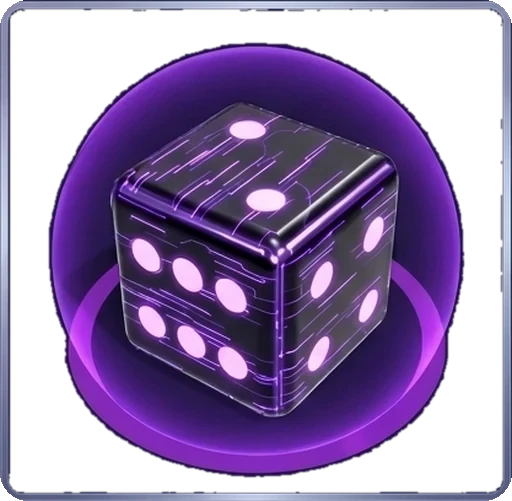
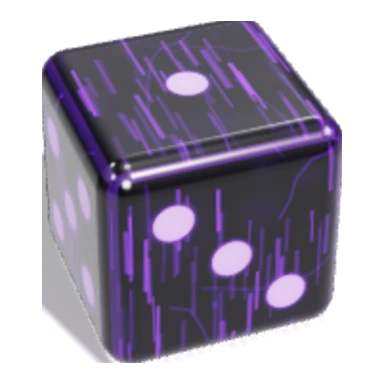
feat: thumbnail dadu dari referensi/thumb; thumbnail set karakter; scrollbar grid Set disembunyikan (slot kanan tidak tertutup); SW v458, karakter.js v=229, kredit.css v=222

diff --git a/data/inventory/character/_shared/js/karakter.js b/data/inventory/character/_shared/js/karakter.js
@@ -1357,6 +1357,9 @@ function startPreview(ci,part,set){
   pv={saved:clone(cfg),ci:ci,set:set||null};previewAll=true;
   apply(part);
 }
+/* thumbnail set bawaan: data/inventory/character/_shared/img/set/<id>-<m|f>.webp (hanya set bawaan; PVP & outfit pribadi tidak punya foto) */
+const SET_THUMBS=new Set(['citizen-m','knight-m','mage-m','farmer-m','explorer-m','noble-m','citizen-f','knight-f','mage-f','farmer-f','explorer-f','princess-f','fairy-f']);
+function setThumb(p){const k=p.id+'-'+p.g;return(p.outfit==null&&!p.pvp&&SET_THUMBS.has(k))?'data/inventory/character/_shared/img/set/'+k+'.webp':'';}
 /* ===== Set: beli per set = total harga item yang belum dimiliki ===== */
 const SLOTK=['top','legs','boots','helm','chest','shoulder','cape','weapon'];
 function setParts(p){ /* item katalog tiap bagian set (selain 'none') */
@@ -1522,7 +1525,8 @@ function renderOpts(){
     const presetCard=p=>{
       const st=setStatus(p),lock=st.miss.length>0,on=!lock&&setOn(p);
       const part=clone(p.set),name=p.n.replace(/^\S+\s/,'');
-      optsEl.appendChild(card({i:n++,th:emo(c.ico),nm:p.n,on:on,lock:lock,sel:!!(pv&&((pv.set&&pv.set.id===p.id)||(pv.draft&&pv.key==='p'+p.id))),
+      const stat=setThumb(p); /* set bawaan = foto statis; PVP & outfit pribadi tetap jepretan 3D */
+      optsEl.appendChild(card({i:n++,th:stat?'<img class="thimg" src="'+stat+'" alt="" draggable="false" decoding="async">':emo(c.ico),nm:p.n,on:on,lock:lock,sel:!!(pv&&((pv.set&&pv.set.id===p.id)||(pv.draft&&pv.key==='p'+p.id))),
         actionKey:'set:'+p.id,
         action:{
           state:()=>lock
@@ -1539,7 +1543,7 @@ function renderOpts(){
           }
         },
         fn:()=>lock?startPreview(st.miss[0],clone(p.set),{id:p.id,n:p.n,cis:st.miss,total:st.total}):stage('p'+p.id,p.n.replace(/^\S+\s/,''),clone(p.set)),
-        tq:{key:'p|'+p.g+p.id+JSON.stringify([cfg.skin,cfg.eyes,cfg.hair,cfg.body])+(p.outfit!=null?JSON.stringify(p.set):''),fr:'full',part:()=>clone(p.set)}}));
+        tq:stat?null:{key:'p|'+p.g+p.id+JSON.stringify([cfg.skin,cfg.eyes,cfg.hair,cfg.body])+(p.outfit!=null?JSON.stringify(p.set):''),fr:'full',part:()=>clone(p.set)}}));
     };
     PRESETS.filter(p=>p.g===cfg.gender).forEach(presetCard);
     /* outfit pribadi: tampil di samping set bawaan (hanya yang sesuai gender), lalu kartu "Simpan tampilan" bila slot masih ada */

diff --git a/data/inventory/character/_shared/css/kredit.css b/data/inventory/character/_shared/css/kredit.css
@@ -33,7 +33,8 @@ body.kr #info::before{content:'';position:absolute;inset:-20px;border:20px solid
 .cat.sub .cl{font-size:19px}
 .cat.sub.on{border-bottom-color:#ffd45a}
 #ofm{position:absolute;right:0;top:232px;width:auto;height:54px;padding:0 24px;border-radius:12px;font:400 26px var(--font-title);text-shadow:0 2px 0 rgba(0,0,0,.6);background:url(../../../../../assets/images/ui/buttons-and-controls/tombol-biru-polos.webp) center/100% 100% no-repeat}
-#gwrap{position:absolute;left:0;top:318px;width:920px;height:600px;overflow-y:auto;overflow-x:hidden;padding:6px 8px 6px 0;scrollbar-width:thin;scrollbar-color:#6d6590 transparent}
+#gwrap{position:absolute;left:0;top:318px;width:920px;height:600px;overflow-y:auto;overflow-x:hidden;padding:6px 8px 6px 0;scrollbar-width:none;-ms-overflow-style:none;touch-action:pan-y}
+#gwrap::-webkit-scrollbar,#grid::-webkit-scrollbar{display:none;width:0;height:0}
 #grid{position:static;left:auto;top:auto;width:900px;display:grid;grid-template-columns:repeat(6,140px);grid-auto-rows:236px;gap:14px 12px}
 #grid.flat{grid-template-columns:1fr;grid-auto-rows:auto;gap:16px}
 .card{position:relative;width:140px;height:236px;display:flex;flex-direction:column;align-items:center;justify-content:flex-end;gap:4px;padding:8px 6px 8px;cursor:pointer;animation:pop .35s both;transition:transform .1s}

diff --git a/karakter.html b/karakter.html
@@ -5,7 +5,7 @@
 <script>UT.PageShell.renderBase();</script>
 <title>Karakter - Dragon Roll</title><link rel="icon" type="image/png" sizes="32x32" href="assets/icons/favicon-32.png"><link rel="icon" href="assets/icons/favicon.ico" sizes="any">
 
-<link rel="stylesheet" href="assets/css/page.css"><link rel="stylesheet" href="data/inventory/character/_shared/css/karakter.css"><link rel="stylesheet" href="data/inventory/character/_shared/css/kredit.css?v=221"><link rel="stylesheet" href="assets/css/bg.css">
+<link rel="stylesheet" href="assets/css/page.css"><link rel="stylesheet" href="data/inventory/character/_shared/css/karakter.css"><link rel="stylesheet" href="data/inventory/character/_shared/css/kredit.css?v=222"><link rel="stylesheet" href="assets/css/bg.css">
 <script src="assets/js/systems/ambience.js"></script>
 </head>
 <body class="kr">
@@ -47,6 +47,6 @@
 <script src="assets/js/core/shared-gl.js"></script>
 <script src="assets/js/core/page-module.js"></script>
 <script src="data/inventory/character/_shared/js/character-sets.js"></script>
-<script src="data/inventory/character/_shared/js/karakter.js?v=228"></script>
+<script src="data/inventory/character/_shared/js/karakter.js?v=229"></script>
 </body>
 </html>

diff --git a/data/inventory/character/_shared/css/karakter.css b/data/inventory/character/_shared/css/karakter.css
@@ -54,7 +54,7 @@
 .tab.on .ul{display:block}
 /* slot diperbesar 1.25x (5 kolom, ~162px): di HP layar lebar (20:9) stage 1920x1080 tampil di tinggi penuh jadi slot 130px terlalu kecil.
    zoom menskalakan slot + isi (ikon, harga, tag) bersama; left/top/ukuran di bawah sudah dibagi 1.25. Grid bisa di-scroll bila item > 4 baris. */
-#grid{position:absolute;left:4px;top:210px;width:740px;max-height:636px;display:grid;grid-template-columns:repeat(5,130px);grid-auto-rows:130px;gap:20px;zoom:1.25;overflow-y:auto;overflow-x:hidden;padding:6px 4px;box-sizing:content-box;overscroll-behavior:contain;scrollbar-width:thin;scrollbar-color:#6d6590 transparent}
+#grid{position:absolute;left:4px;top:210px;width:740px;max-height:636px;display:grid;grid-template-columns:repeat(5,130px);grid-auto-rows:130px;gap:20px;zoom:1.25;overflow-y:auto;overflow-x:hidden;padding:6px 4px;box-sizing:content-box;overscroll-behavior:contain;scrollbar-width:none;-ms-overflow-style:none}
 .slot{position:relative;width:130px;height:130px;background:url(../../../../../assets/images/ui/slot-equipment/slot-ungu.webp) center/100% 100% no-repeat;transition:transform .1s,filter .1s}
 .slot:hover{filter:brightness(1.15)}
 .slot:active{transform:scale(.95)}

diff --git a/sw.js b/sw.js
@@ -10,7 +10,7 @@
    dimigrasikan: isi media dicocokkan dengan hash, yang cocok dipakai ulang tanpa unduh.
    JALANKAN ulang tools/gen-preload-manifest.py setiap mengganti/menambah media (tes tests/sw-incremental-media.test.js menjaganya).
    Request Range (audio) dilayani dari cache bila file sudah tersimpan penuh; bila belum, lewat jaringan biasa. Non-GET tidak disentuh. */
-const VERSION = 'ut-pwa-v457';
+const VERSION = 'ut-pwa-v458';
 const MEDIA_CACHE = 'ut-media'; /* permanen: tidak dibuang saat VERSION naik */
 const MEDIA_INDEX = '__media-index__'; /* kunci indeks hash di MEDIA_CACHE */
 const MEDIA_HASH_URL = 'assets/media-hash.json';
